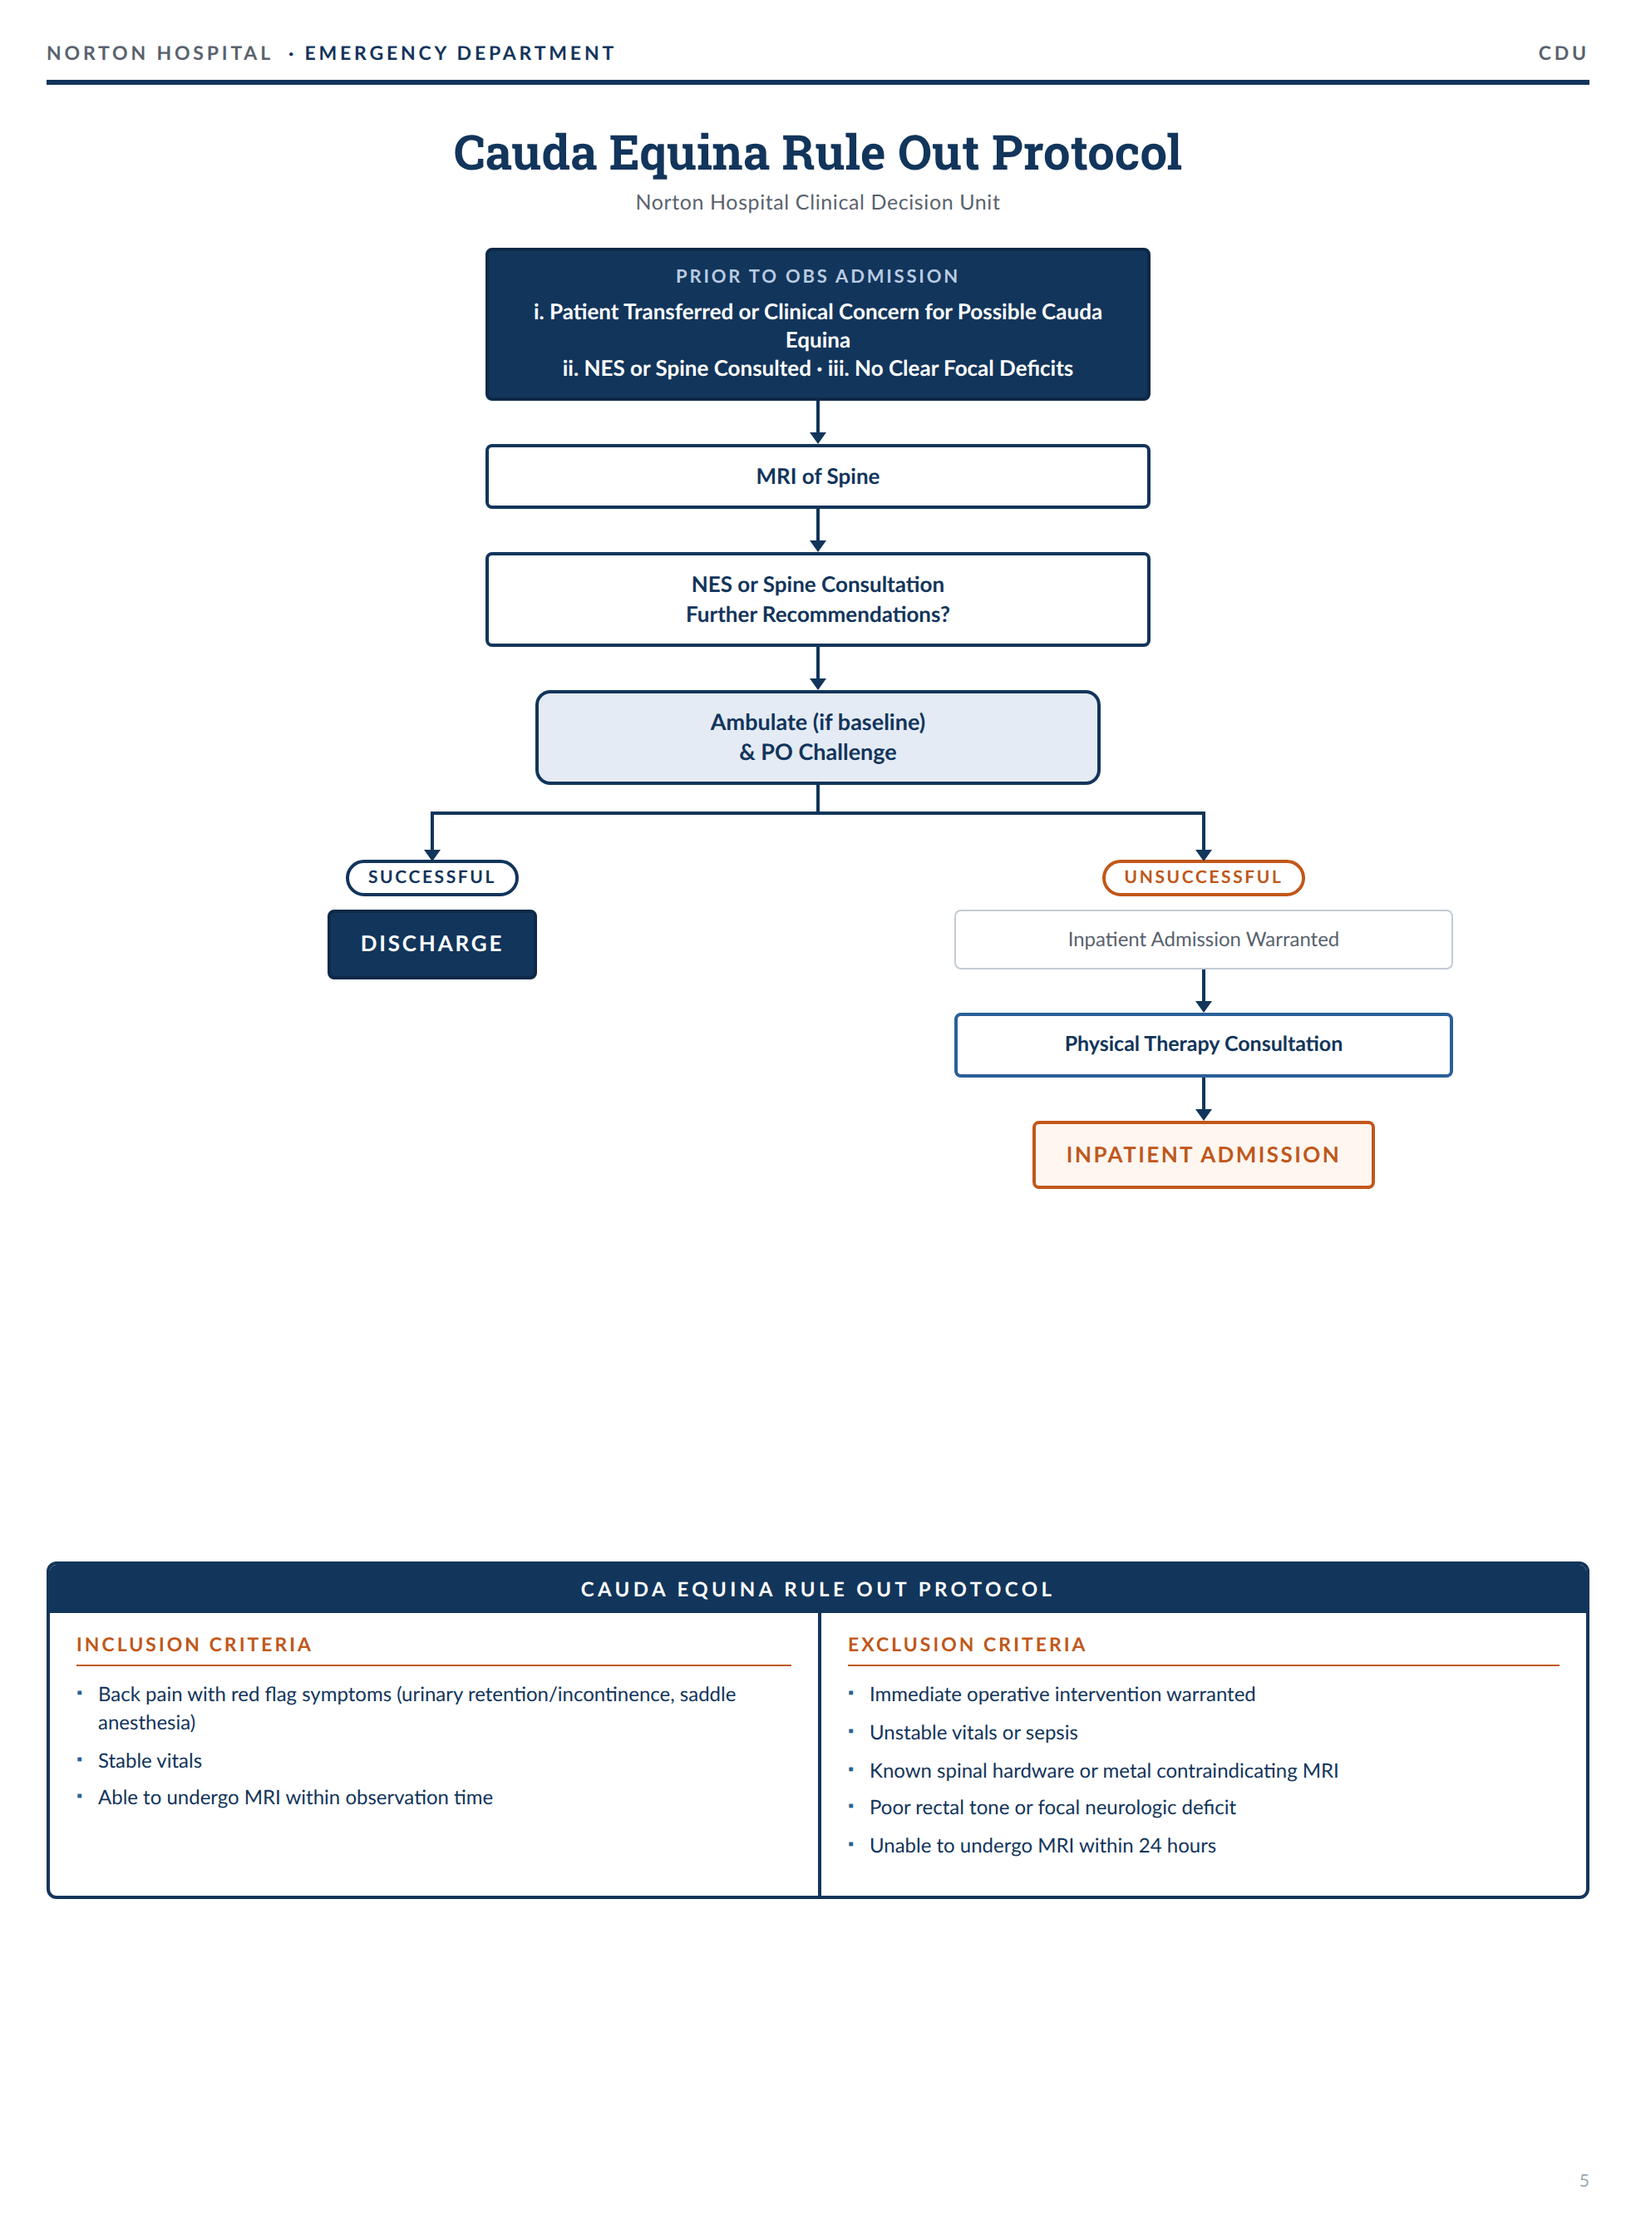
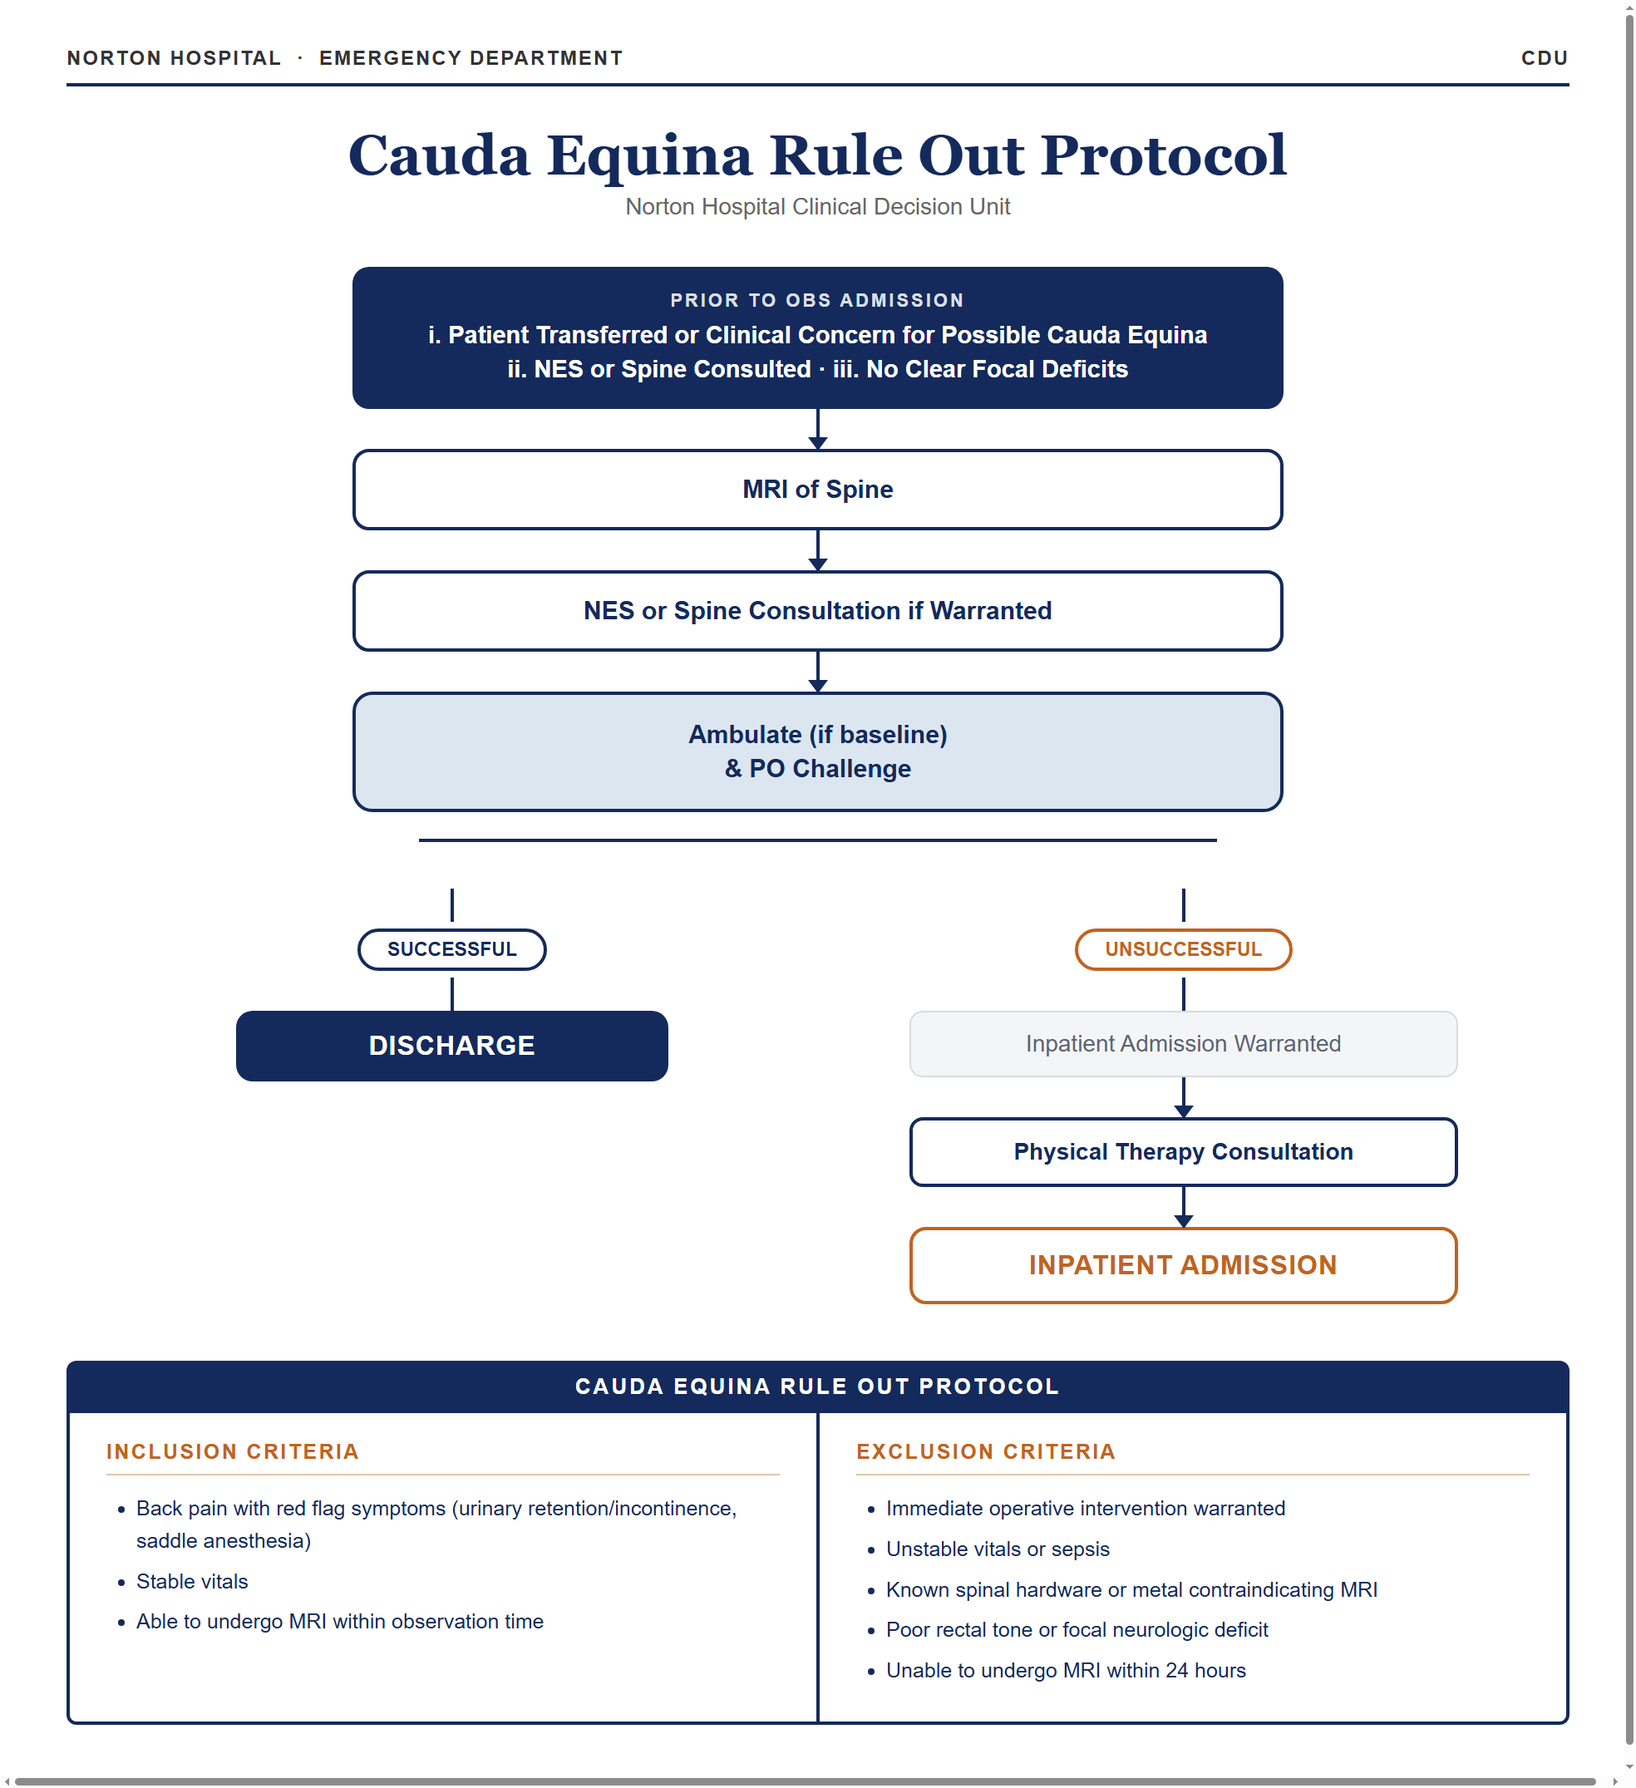
Update Appendicitis, A-fib, and Back Pain protocols per clinical review

diff --git a/data/protocols.js b/data/protocols.js
@@ -205,18 +205,19 @@ const PROTOCOLS = [
   },
   {
     id: "appendicitis",
-    name: "Appendicitis",
+    name: "Appendicitis/Cholecystitis Surgical Short Stay",
     criteria: [
       { heading: "Inclusion Criteria", items: [
         "Stable vital signs",
         "Established IV access",
         "No significant laboratory abnormality (e.g., anion gap <20, severe renal failure)",
-        "Confirmed appendicitis on CT and General Surgery consulted"
+        "Confirmed appendicitis on CT and General Surgery consulted",
+        "Suspected discharge after OR or within 24 hours per discussion with Surgery"
       ]},
       { heading: "Exclusion Criteria", items: [
         "Evidence of hemodynamic compromise",
         "Pregnancy",
-        "Hemoglobin <5",
+        "Signs of sepsis / septic shock",
         "Co-morbid conditions requiring admission or critical care consultation"
       ]},
       { heading: "Potential CDU Interventions", items: [
@@ -224,10 +225,11 @@ const PROTOCOLS = [
         "IV fluids",
         "Electrolyte replacement as indicated",
         "Repeat labs as indicated",
-        "Antiemetics as indicated"
+        "Antiemetics as indicated",
+        "Antibiotics as indicated"
       ]},
       { heading: "Discharge Parameters", items: [
-        "General Surgery attending recommends discharge or outpatient management with close follow-up"
+        "OR complete and patient cleared for discharge by Surgery"
       ]},
       { heading: "Admission Parameters", items: [
         "Worsening of clinical condition; patient becomes hypotensive",
@@ -235,7 +237,7 @@ const PROTOCOLS = [
         "Development of any exclusion criteria",
         "Progression of clinical disease",
         "Admission deemed necessary by consulting service",
-        "Mental status decline"
+        "Unable to tolerate PO after surgery and prior to discharge"
       ]}
     ],
     orderSet: {
@@ -354,7 +356,6 @@ const PROTOCOLS = [
       { heading: "Exclusion Criteria", items: [
         "HR >110 despite ED medications; IV vasoactive drips required (e.g., diltiazem)",
         "Hemodynamically unstable; ongoing ischemic chest pain after rate control",
-        "AF onset >48 hours or unknown; chronic atrial fibrillation",
         "Acute comorbidities: evidence of acute MI, CHF, PE, sepsis, CVA/embolic event",
         "Troponin elevation; stable/unstable ventricular tachycardia or fibrillation",
         "High-grade AV block (II or III) or new wide-complex dysrhythmia",
@@ -364,6 +365,7 @@ const PROTOCOLS = [
         "Cardiac monitoring, pulse oximetry; VS Q2 hr x 6 hr, then Q4 hr",
         "Anticoagulate if not contraindicated — PO aspirin (325 mg) or SQ heparin (LMWH or UFH)",
         "Rate control options: oral Cardizem, verapamil, or beta blockers",
+        "Metoprolol 5 mg IV q5 min (max 3 doses) once while in observation",
         "Serial Troponin and ECGs at 3 and 6 hours from first ED blood draw",
         "TSH, 2D echocardiogram if indicated; educate patient on cardioversion options",
         "Electrical cardioversion to occur outside of the CDU; initiate anticoagulation if indicated"
@@ -390,7 +392,10 @@ const PROTOCOLS = [
         { label: "Diet", items: ["NPO", "Clears", "Regular Diet", "Cardiac Diet"] },
         { label: "Medications", subheading: "Rate Control", items: [
           "Metoprolol 5 mg IV q6h PRN HR >110",
-          "Diltiazem 10 mg IV PRN HR >110"
+          "Diltiazem 10 mg IV PRN HR >110",
+          "Metoprolol 25–100 mg PO BID",
+          "Diltiazem 60–120 mg PO TID",
+          "Extended-release rate control per Cardiology recommendations"
         ]},
         { label: "Medications", subheading: "Analgesic", items: ["Acetaminophen 650 mg PO q4h PRN (Mild Pain 1–3)"] },
         { label: "IV Fluid Orders", items: [
@@ -408,23 +413,19 @@ const PROTOCOLS = [
     id: "back-pain-cauda-equina",
     name: "Back Pain / Cauda Equina Rule-Out",
     criteria: [
-      { heading: "Inclusion Criteria — Back Pain", items: [
+      { heading: "Inclusion Criteria", items: [
         "Inability to adequately control pain in ED with analgesics",
         "Normal neurological function; no risk of metastatic disease or epidural abscess",
         "Back pain without severe trauma; normal imaging (if obtained)",
-        "Inability to ambulate because of pain"
-      ]},
-      { heading: "Exclusion Criteria — Back Pain", items: [
-        "Age over 65 years old; frequent ED visits / suspected narcotic-seeking behavior",
-        "Acute motor deficit (foot drop, loss of extension, loss of bowel/bladder control)",
-        "Abnormal X-rays (burst fracture, spine canal involvement)",
-        "High suspicion of cord compression, metastatic disease, epidural bleed/abscess, discitis; fever"
-      ]},
-      { heading: "Inclusion Criteria — Cauda Equina Rule-Out", items: [
+        "Inability to ambulate because of pain",
         "Back pain with red-flag symptoms (urinary retention/incontinence, saddle anesthesia)",
         "Stable vitals; able to undergo MRI within observation time"
       ]},
-      { heading: "Exclusion Criteria — Cauda Equina Rule-Out", items: [
+      { heading: "Exclusion Criteria", items: [
+        "Frequent ED visits / suspected narcotic-seeking behavior",
+        "Acute motor deficit (foot drop, loss of extension, loss of bowel/bladder control)",
+        "Abnormal X-rays (burst fracture, spine canal involvement)",
+        "High suspicion of cord compression, metastatic disease, epidural bleed/abscess, discitis; fever",
         "Immediate operative intervention warranted; unstable vitals or sepsis",
         "Known spinal hardware or metal contraindicating MRI",
         "Poor rectal tone or focal neurologic deficit; unable to undergo MRI within 24 hours"
